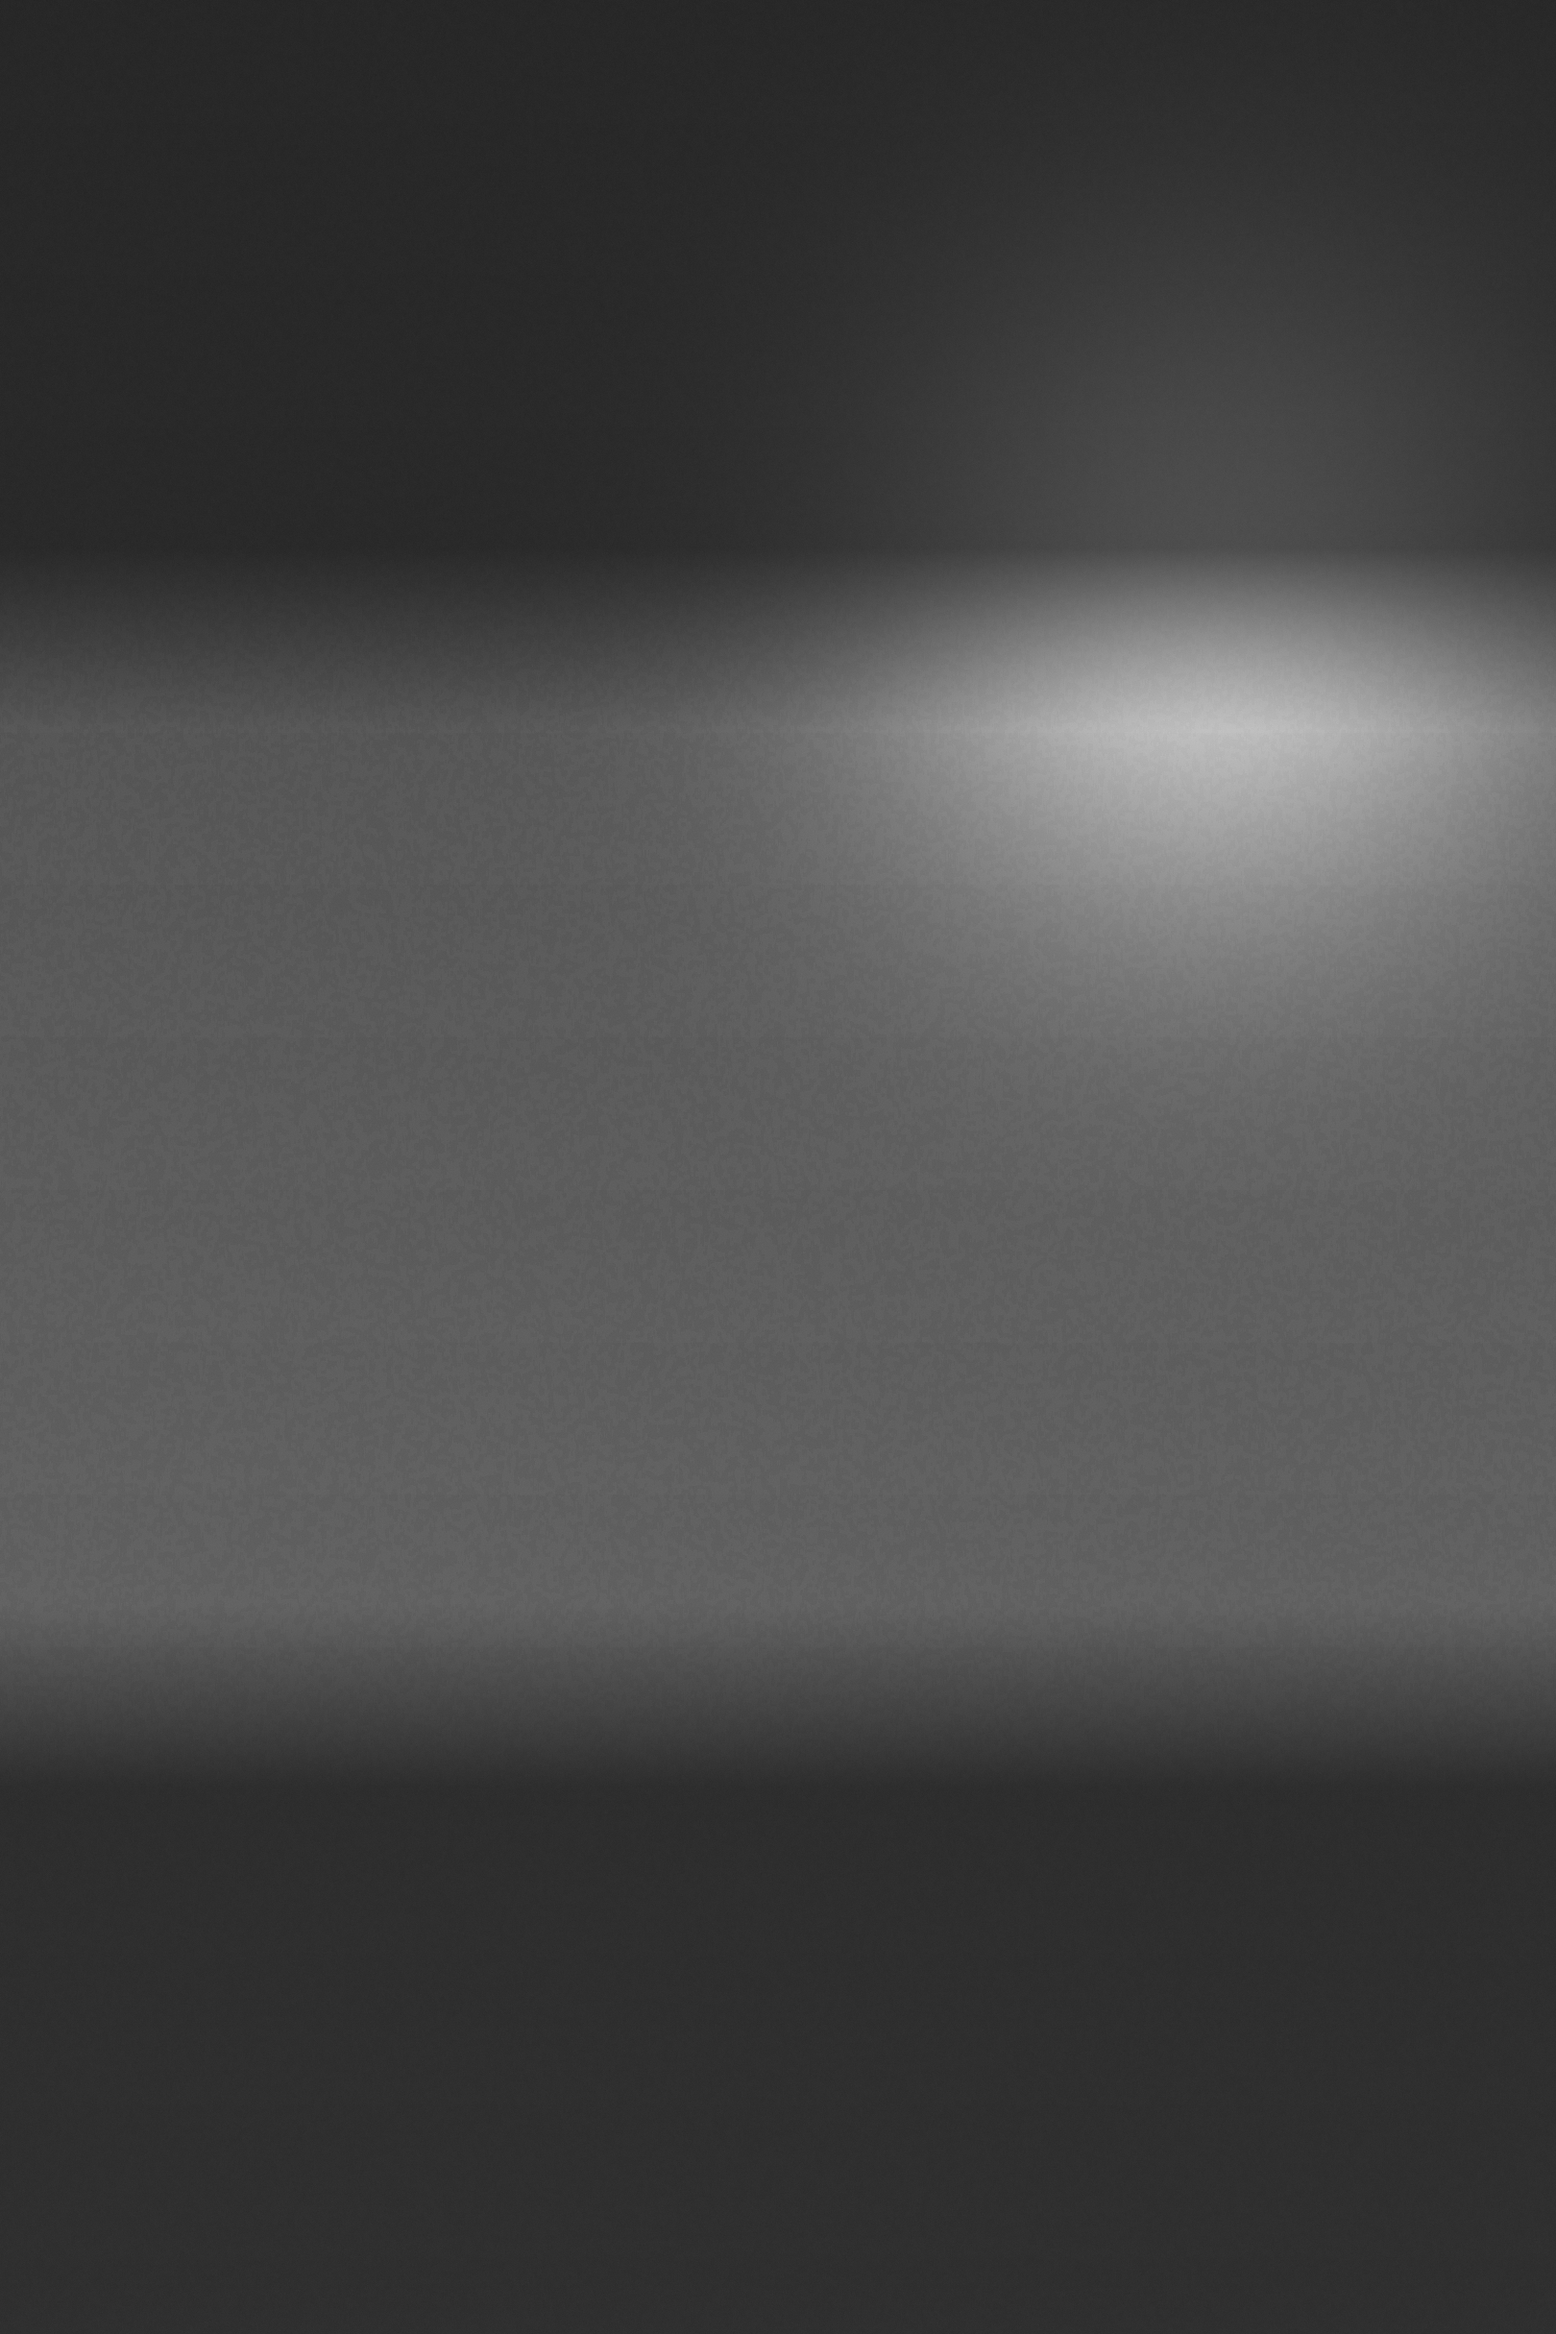
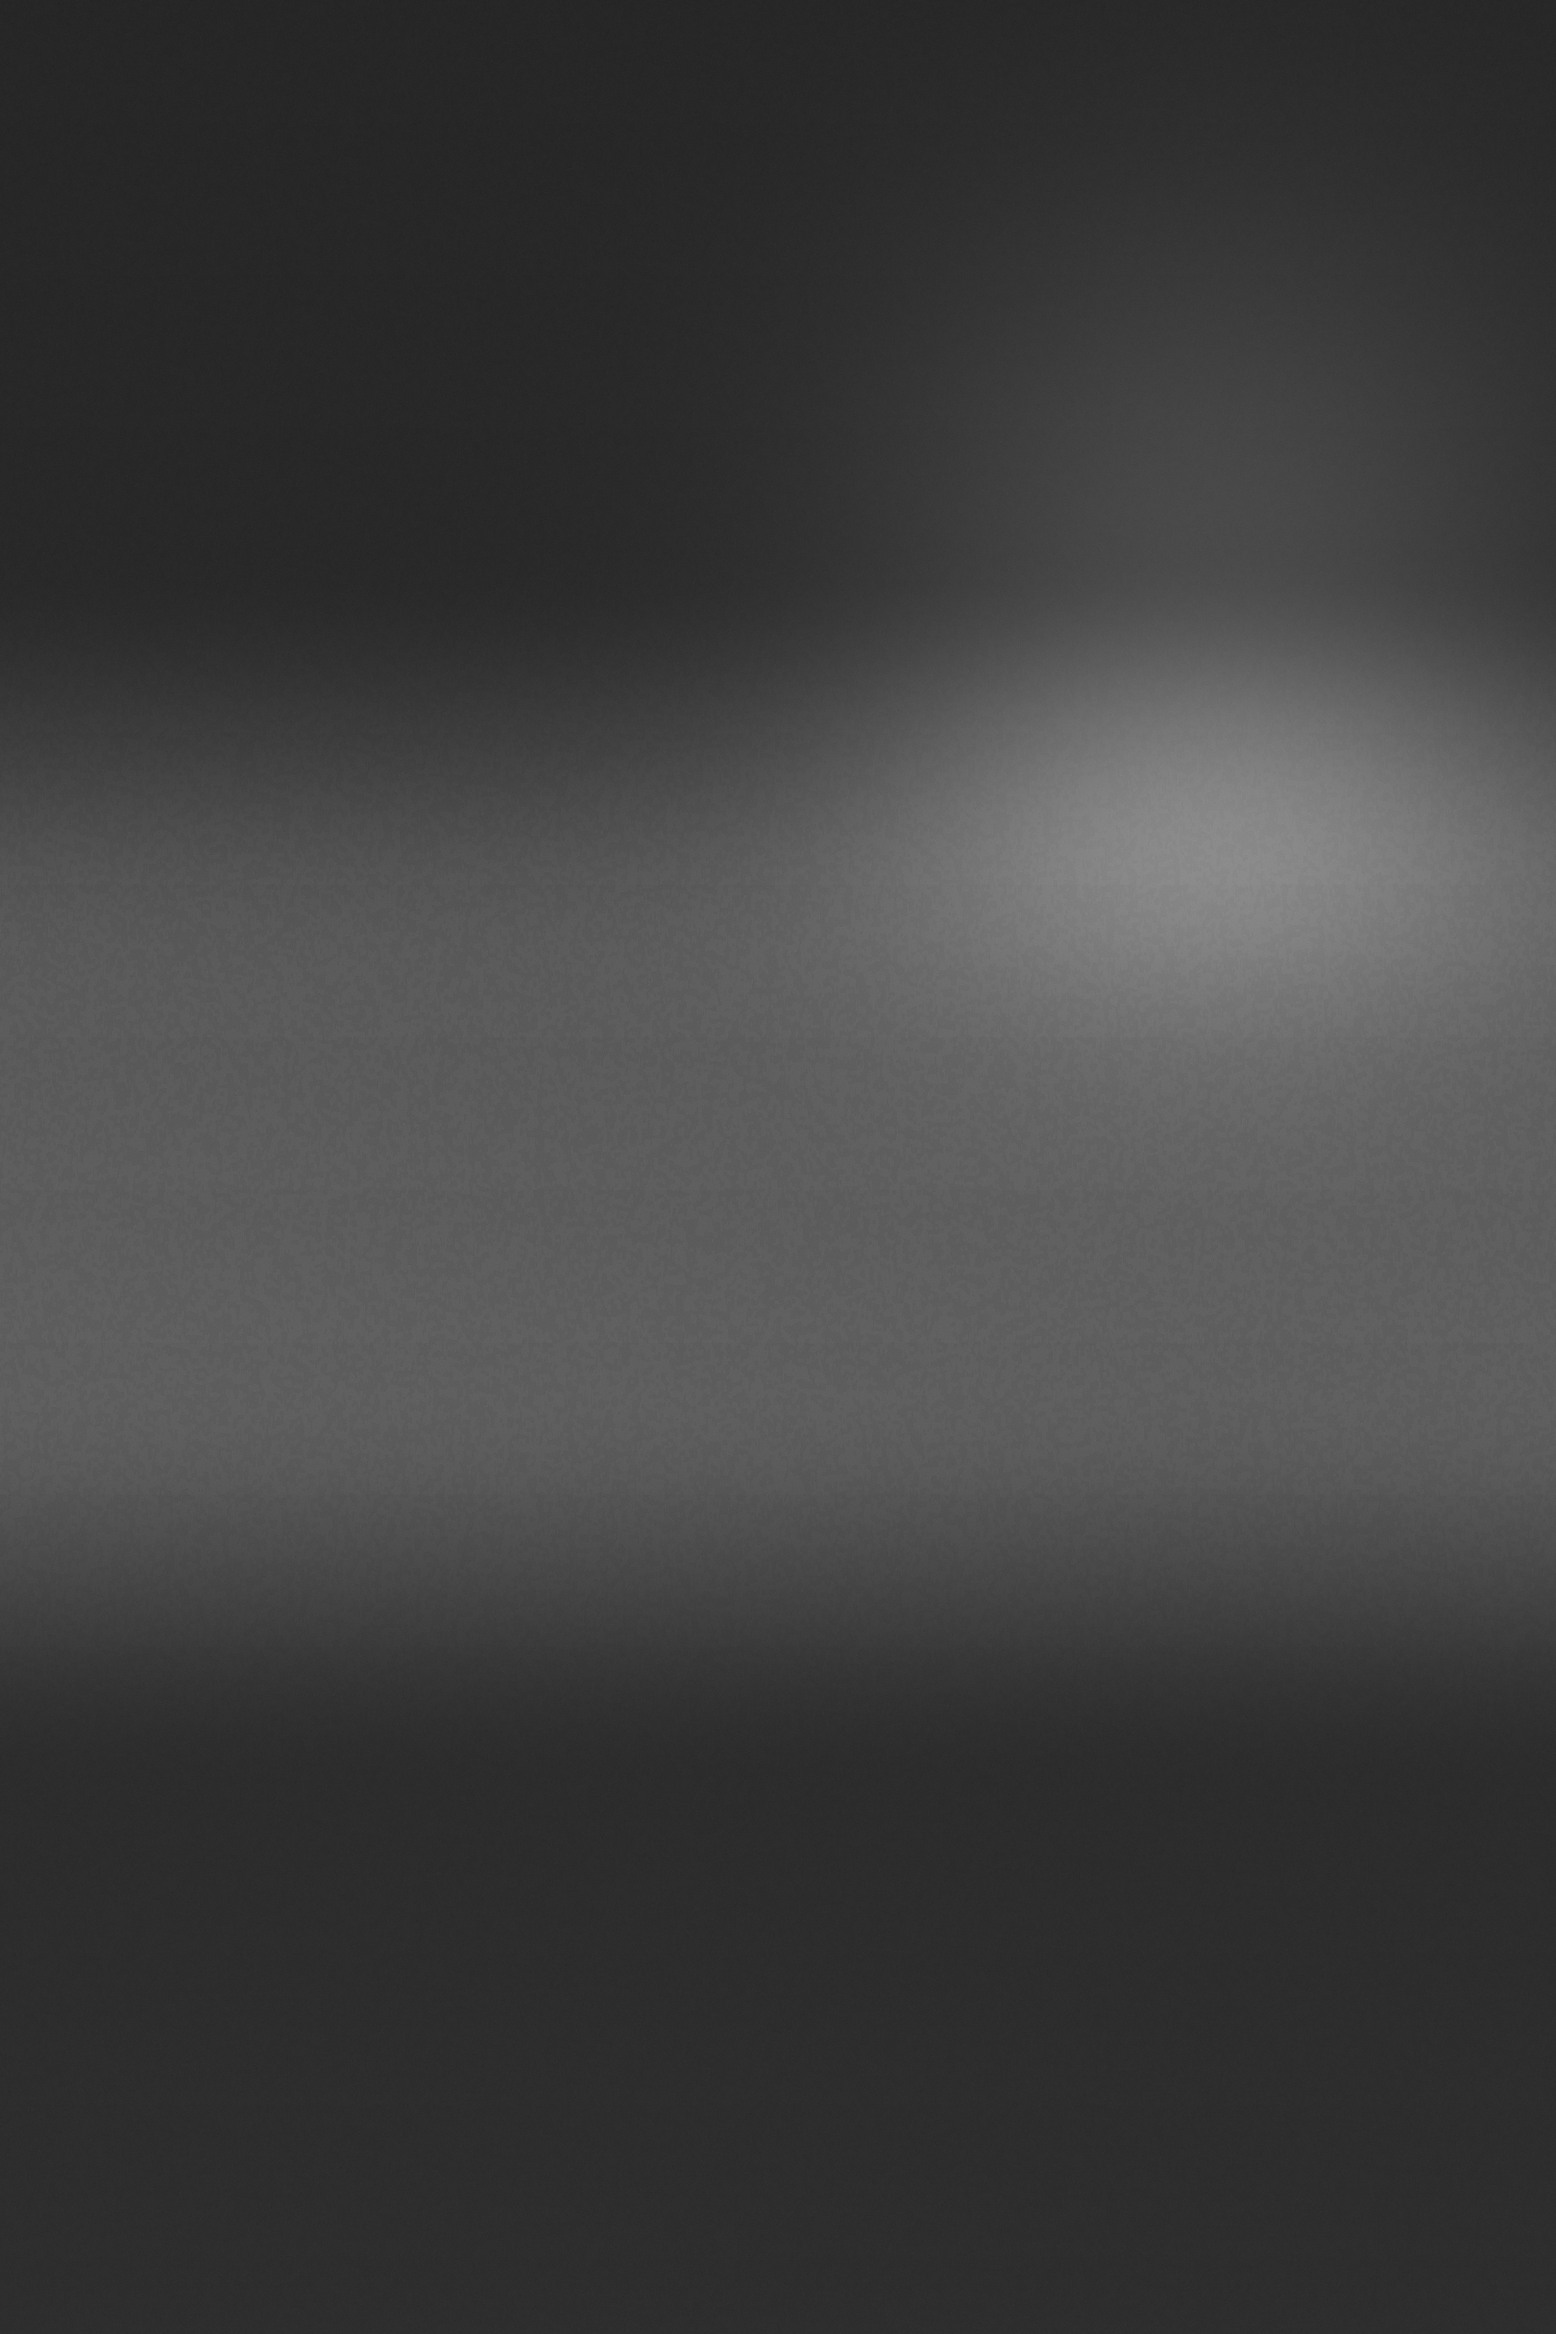
fix(report): soften background band transition and drop rank slabs
The 190px linear envelope ramp showed a visible horizontal seam on device; it
now uses a longer smoothstep. The rank background had rounded slabs that read
as broken content cards behind the yearly-best text, so it is a plain glow now.

Changed region(s): [[0.0, 0.6481, 1.0, 0.7407], [0.0, 0.2469, 1.0, 0.3704]]

diff --git a/tools/report_assets/generate_procedural.py b/tools/report_assets/generate_procedural.py
@@ -57,16 +57,20 @@ def darkening_envelope() -> np.ndarray:
     """把上下文字安全区压暗，并在 190px 内平滑过渡，避免出现可见的压暗带。"""
     ys = np.arange(H, dtype=np.float32)
     env = np.ones(H, dtype=np.float32)
-    band, ramp = 0.28, 190.0
+    band, ramp = 0.26, 430.0
+
+    def smoothstep(t: np.ndarray) -> np.ndarray:
+        t = np.clip(t, 0.0, 1.0)
+        return t * t * (3.0 - 2.0 * t)
 
     top_end = TOP_BAND[1]
     env[ys < top_end] = band
     m = (ys >= top_end) & (ys < top_end + ramp)
-    env[m] = band + (1.0 - band) * (ys[m] - top_end) / ramp
+    env[m] = band + (1.0 - band) * smoothstep((ys[m] - top_end) / ramp)
 
     bottom_start = BOTTOM_BAND[0]
     m2 = (ys >= bottom_start - ramp) & (ys < bottom_start)
-    env[m2] = 1.0 - (1.0 - band) * (ys[m2] - (bottom_start - ramp)) / ramp
+    env[m2] = band + (1.0 - band) * smoothstep((bottom_start - ys[m2]) / ramp)
     env[ys >= bottom_start] = band
     return env[:, None]
 
@@ -114,24 +118,21 @@ def art_chart(rng):
     layer, d = new_layer()
     y, step = 640, 74
     while y < 1820:
-        d.line([(0, y), (W, y)], fill=int(0.34 * 255), width=2)
+        d.line([(0, y), (W, y)], fill=int(0.16 * 255), width=2)
         y += step
         step = int(step * 1.06)
     for x in range(0, W + 1, 162):
-        d.line([(x, 600), (x, 1840)], fill=int(0.16 * 255), width=2)
-    return base + layer_to01(layer, 1.6) + noise(rng, 0.010, radius=2.0)
+        d.line([(x, 600), (x, 1840)], fill=int(0.08 * 255), width=2)
+    # 网格只当质感，不能压过正文：糊重一点
+    return base + layer_to01(layer, 5.0) + noise(rng, 0.010, radius=2.0)
 
 
 def art_rank(rng):
+    # 曾经画过 4 个圆角板块，真机上被当成"画坏的卡片"跟正文抢视觉，已改为纯柔光
     base = vertical_gradient(0.13, 0.32)
-    layer, d = new_layer()
-    for i in range(4):
-        top = 720 + i * 250
-        left = 180 + i * 30
-        d.rounded_rectangle([left, top, W - left, top + 190], radius=28,
-                            fill=int((0.22 + 0.06 * (3 - i)) * 255))
-        d.rounded_rectangle([left, top, W - left, top + 10], radius=5, fill=int(0.55 * 255))
-    return base + layer_to01(layer, 3.0) + noise(rng, 0.010, radius=2.0)
+    glow = radial_glow(0.5, 0.42, 540, 0.20) + radial_glow(0.20, 0.64, 400, 0.13)
+    haze = blur01(vertical_gradient(0.09, 0.0), 130)
+    return base + glow + haze + noise(rng, 0.010, radius=2.0)
 
 
 def art_night(rng):
